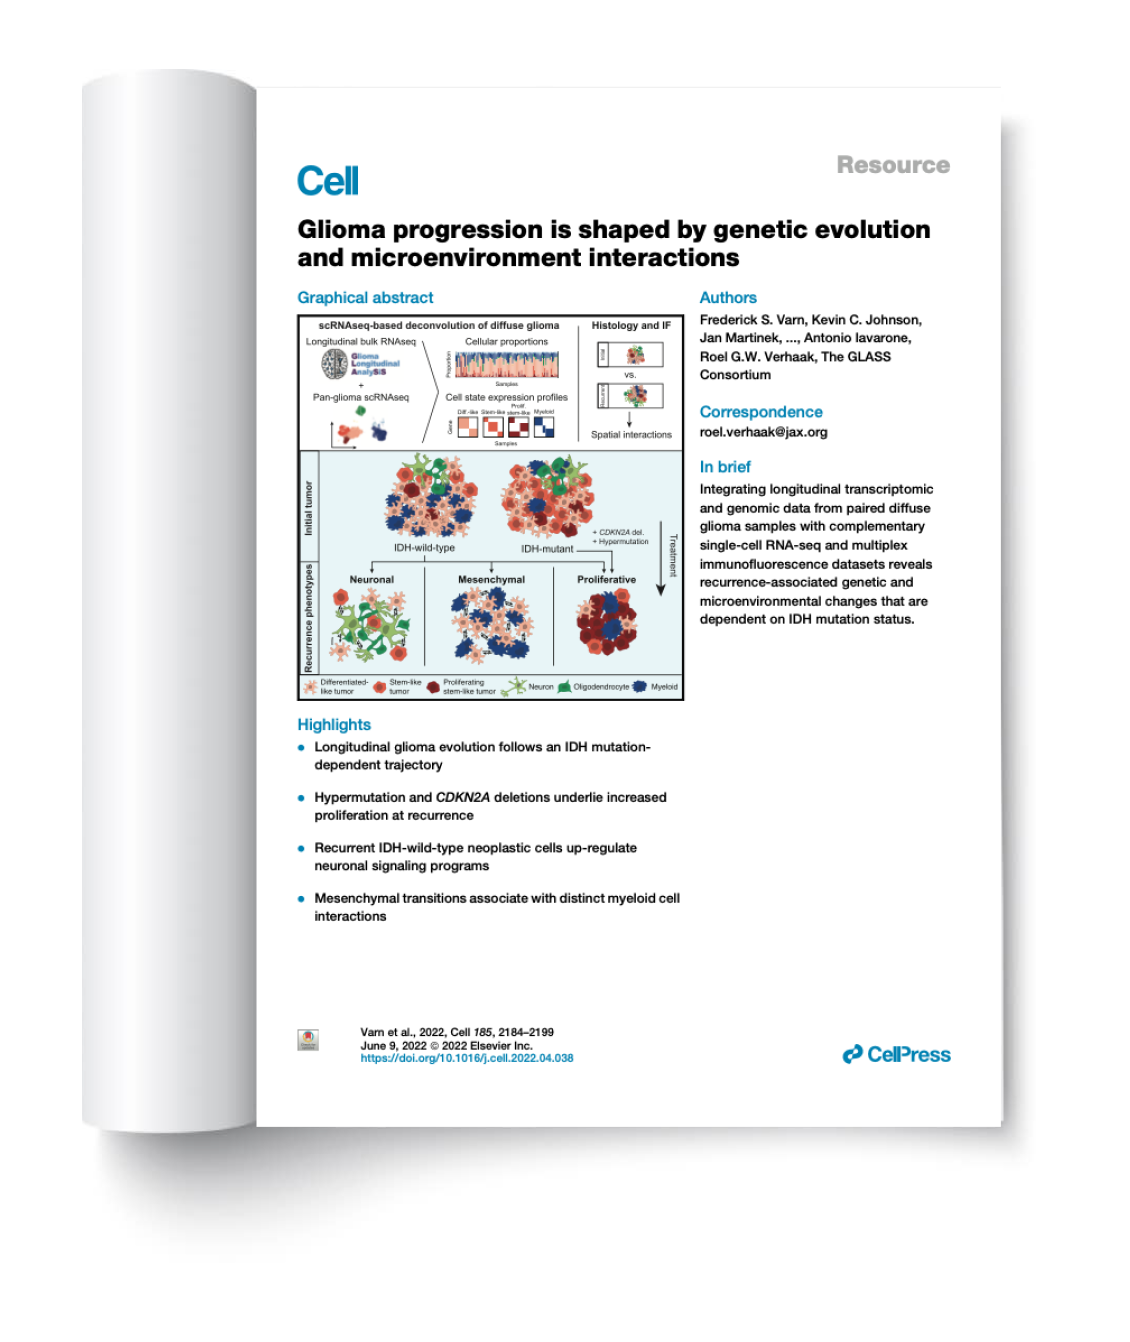
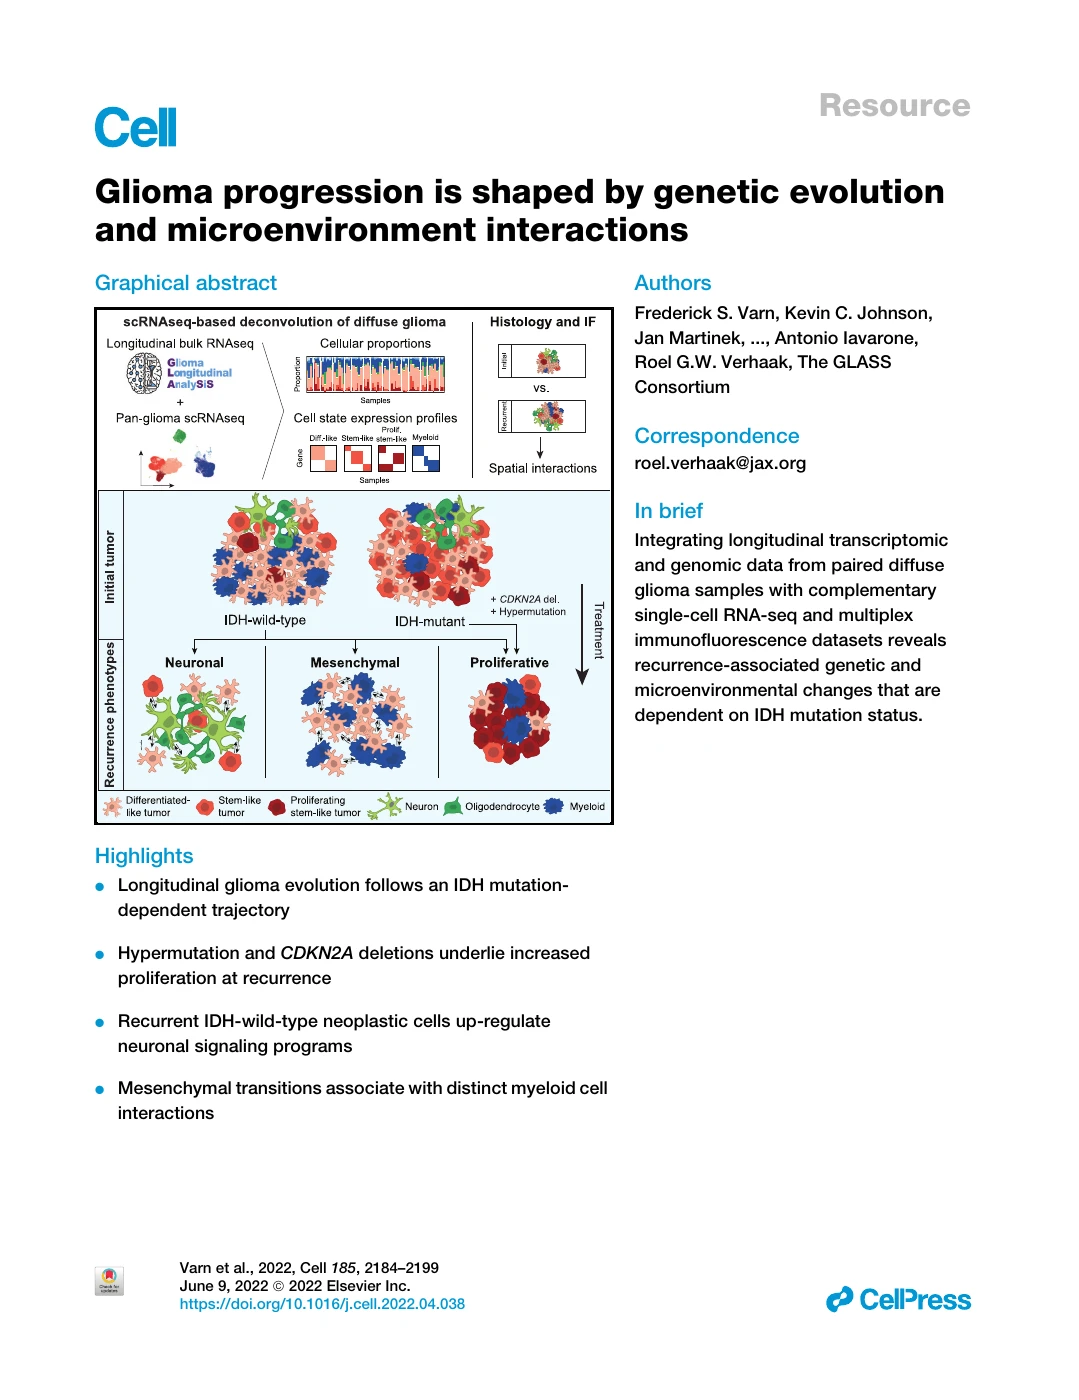
Clean optimized assets and verify editable content across pages

Changed region(s): [[0.0612, 0.0306, 0.9175, 0.9471], [0.7646, 0.9165, 0.9175, 0.9471], [0.734, 0.7638, 0.8563, 0.7943]]

diff --git a/src/components/pages/DesignCredits.jsx b/src/components/pages/DesignCredits.jsx
@@ -26,25 +26,31 @@ const groups = [
       { label: "React Markdown", to: "https://github.com/remarkjs/react-markdown", detail: "News article rendering" },
       { label: "EmailJS", to: "https://www.emailjs.com/", detail: "Contact form delivery" },
       { label: "canvas-confetti", to: "https://www.npmjs.com/package/canvas-confetti", detail: "News interactions" },
-      { label: "Particles.js", to: "https://github.com/VincentGarreau/particles.js/", detail: "Footer particle network" },
-      { label: "X Embedded Timeline", to: "https://help.x.com/en/using-x/embed-x-feed", detail: "Official expandable Overview profile feed" },
+      { label: "tsParticles", to: "https://particles.js.org/", detail: "Footer animation using the React integration and slim engine" },
+      { label: "Google Maps", to: "https://maps.google.com/", detail: "Embedded hematology location map" },
+      { label: "React Helmet", to: "https://github.com/nfl/react-helmet", detail: "Document metadata on the recovery page" },
     ],
   },
   {
     title: "Visual Assets",
     items: [
       { label: "Adobe Firefly", to: "https://www.adobe.com/products/firefly.html", detail: "DNA cover artwork" },
-      { label: "Google Fonts", to: "https://fonts.google.com/", detail: "Space Grotesk and DM Sans" },
+      { label: "Segoe UI & system fonts", detail: "Main interface uses locally installed fonts; no Segoe font files are distributed" },
+      { label: "Google Fonts", to: "https://fonts.google.com/", detail: "Hero typography and retained page font styles" },
       { label: "Journal artwork", detail: "Publication covers and journal marks belong to their publishers" },
       { label: "Organization marks", detail: "Collaborator and funder logos belong to their organizations" },
       { label: "Kocakavuk Lab", detail: "Member portraits, news images, and moments photography" },
     ],
   },
   {
-    title: "Delivery",
+    title: "Build, Testing & Delivery",
     items: [
       { label: "Cloudflare", to: "https://www.cloudflare.com/", detail: "Site hosting and delivery" },
-      { label: "jsDelivr", to: "https://www.jsdelivr.com/", detail: "Particles.js CDN" },
+      { label: "Vite", to: "https://vite.dev/", detail: "Development server and production build" },
+      { label: "Vitest & Testing Library", to: "https://vitest.dev/", detail: "Component and content integration tests with jsdom" },
+      { label: "PostCSS & Autoprefixer", to: "https://postcss.org/", detail: "CSS build processing and browser prefixes" },
+      { label: "Node.js & npm", to: "https://nodejs.org/", detail: "Content validation, asset generation and dependency management" },
+      { label: "GitHub Actions", to: "https://github.com/features/actions", detail: "Pull request content checks, tests and builds" },
     ],
   },
   {
@@ -52,7 +58,6 @@ const groups = [
     wide: true,
     items: [
       { label: "Pranav Swaroop Gundla", to: "https://github.com/psgundla", detail: "Lab website architect and maintainer" },
-      { label: "Mahsasadat Nezamabadi", to: "https://github.com/MahsasadatNezamabadi", detail: "Lab website maintainer" },
       { label: "Codex by OpenAI", to: "https://openai.com/codex/", detail: "Development assistance" },
     ],
   },
@@ -71,8 +76,6 @@ const DesignCredits = () => {
           <p className="mt-2 text-white/85">
             Designed with <span aria-hidden="true">&#x2764;</span> by{" "}
             <Link to="https://biocoderr.github.io" className="font-semibold" style={{ color: ORANGE }}>Pranav</Link>
-            {" & "}
-            <Link to="https://github.com/MahsasadatNezamabadi" className="font-semibold" style={{ color: ORANGE }}>Mahsa</Link>
           </p>
         </div>
       </header>
@@ -94,7 +97,7 @@ const DesignCredits = () => {
                 </h2>
               </div>
               <ul
-                className={`mt-4 text-sm ${wide ? "divide-y md:grid md:grid-cols-3 md:divide-x md:divide-y-0" : "divide-y"}`}
+                className={`mt-4 text-sm ${wide ? "divide-y md:grid md:grid-cols-2 md:divide-x md:divide-y-0" : "divide-y"}`}
                 style={{ color: T.muted, borderColor: T.line }}
               >
                 {items.map(({ label, to, detail }) => (

diff --git a/src/ContentEditing.test.jsx b/src/ContentEditing.test.jsx
@@ -1,0 +1,64 @@
+import { afterAll, afterEach, test, expect, vi } from 'vitest';
+import { render, screen, cleanup } from '@testing-library/react';
+import { MemoryRouter, Routes, Route } from 'react-router-dom';
+
+const fixture = await vi.hoisted(async () => {
+  const { createContentFixture } = await import('../scripts/content-fixture.mjs');
+  return createContentFixture();
+});
+vi.mock('./data/generated/people', () => ({ default: fixture.content.people }));
+vi.mock('./data/generated/publications', () => ({ default: fixture.content.publications }));
+vi.mock('./data/generated/network', () => ({ default: fixture.content.network }));
+vi.mock('./data/generated/jobs', () => ({ default: fixture.content.jobs }));
+vi.mock('./data/generated/moments', () => ({ default: fixture.content.moments }));
+vi.mock('./data/generated/news', () => ({ default: fixture.content.news }));
+
+import Overview from './components/pages/Overview';
+import Members from './components/pages/Members';
+import Publications from './components/pages/Publications';
+import Network from './components/pages/Network';
+import News from './components/pages/News';
+import NewsDetail from './components/pages/NewsDetail';
+import Moments from './components/pages/Moments';
+import JoinUs from './components/pages/JoinUs';
+import Contact from './components/pages/Contact';
+import DesignCredits from './components/pages/DesignCredits';
+import Imprint from './components/pages/Imprint';
+import PrivacyPolicy from './components/pages/PrivacyPolicy';
+
+afterEach(cleanup);
+afterAll(() => { fixture.cleanup(); vi.unstubAllGlobals(); });
+// jsdom has no viewport observer; these checks cover content rendering, not animation.
+vi.stubGlobal("IntersectionObserver", class { observe() {} unobserve() {} disconnect() {} });
+window.scrollTo = vi.fn();
+
+for (const [name, Component, text] of [
+  ['Overview', Overview, 'Fixture News'],
+  ['Members', Members, 'Fixture Researcher'],
+  ['Publications', Publications, 'Fixture Publication'],
+  ['Network', Network, 'Fixture Partner'],
+  ['News', News, 'Fixture News'],
+  ['Join Us', JoinUs, 'Fixture Position'],
+]) {
+  test(`${name} renders added content without page edits`, () => {
+    render(<MemoryRouter><Component /></MemoryRouter>);
+    expect(screen.getAllByText(text).length).toBeGreaterThan(0);
+  });
+}
+
+test('new Moments album appears', () => {
+  render(<Moments />);
+  expect(screen.getByRole('button', { name: 'Open 2099 album' })).toBeInTheDocument();
+});
+
+test('new article detail renders Markdown body', () => {
+  render(<MemoryRouter initialEntries={['/news/test-news']}><Routes><Route path="/news/:newsId" element={<NewsDetail />} /></Routes></MemoryRouter>);
+  expect(screen.getByText('Fixture article body.')).toBeInTheDocument();
+});
+
+for (const [name, Component] of [['Contact', Contact], ['Credits', DesignCredits], ['Imprint', Imprint], ['Privacy', PrivacyPolicy]]) {
+  test(`${name} still renders alongside updated content`, () => {
+    render(<MemoryRouter><Component /></MemoryRouter>);
+    expect(screen.getByRole('heading', { level: 1 })).toBeInTheDocument();
+  });
+}

diff --git a/CONTRIBUTING.md b/CONTRIBUTING.md
@@ -139,3 +139,15 @@ Check the Cloudflare branch preview before merging changes that affect rendering
 For an incorrect merged change, open a reviewed revert PR and redeploy through the normal release process. Do not reset shared history. Confirm the deployed commit after release.
 
 See [WebsiteOverview.md](WebsiteOverview.md) for architecture, page ownership and deployment.
+
+## Verify content additions before review
+
+The current editing format remains JSON for the five structured collections and JSON front matter inside Markdown news files. YAML is not supported; do not rename these files to `.yaml` or paste YAML metadata.
+
+`npm run content:test` adds temporary examples for people, publications, network, jobs, Moments and news, verifies generated output, and checks that an invalid edit does not overwrite the last valid output. `npm test` checks those additions in the affected pages, including Overview and news detail, and smoke-tests the static pages. Fixtures live in a temporary directory and are deleted after tests; they never become published website content. Contact and legal pages do not accept data-driven blocks.
+
+Use optimized WebP assets for photographs and publication thumbnails. Before deleting an original, confirm its optimized replacement exists, search source/content/public files for references, and run content validation and a production build. Keep SVG organization marks as SVG. Git history retains removed originals; no history rewrite is needed to clean the current tree.
+
+For publication screenshots, use a flat rendering of the source PDF page, preserve proportions, save as WebP and include the source URL, DOI and page number in the PR. Avoid decorative page mockups. The Cell 2022 GLASS thumbnail uses PDF page 1 from [the coauthor-hosted paper](https://www.barthel-lab.com/publications/data/2022_Cell_GLASSx.pdf), DOI `10.1016/j.cell.2022.04.038`.
+
+Before deleting obsolete branches, archive their tips in a verified Git bundle and record the branch-to-commit mapping and restore commands. Preserve uncommitted work separately. Never delete a branch supporting an open PR; retain the active maintainer branch and main. Archive files are local recovery artifacts, not website assets.
